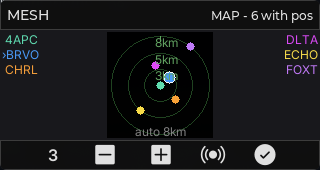
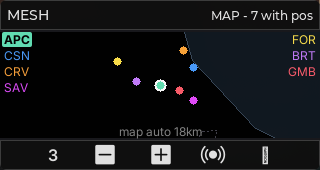
docs(map): refresh ADS-B + Meshtastic media for the worldwide map
Recapture the map media now that the base map is worldwide (world.rmap)
and the ADS-B Mercator crash is fixed:

- ADS-B: new hero demo.gif (full-width Mercator world map with live
  traffic + trails), add map.png, refresh radar.png; add a Map column to
  the screenshots table.
- Meshtastic: new hero demo.gif (world map, drifting nodes); refresh the
  map / map-select / map-zoom shots with a realistic local mesh cluster
  (~20 km around Bologna) over the worldwide coastline + borders.
- README: note the shared worldwide base map; fix the ADS-B caption
  (map, not radar).

Captured on the SDL sim via scripted demo feeders.

Claude-Session: https://claude.ai/code/session_01WxkrRinqJ7bSppr4SrWrMc

diff --git a/apps/adsb/README.md b/apps/adsb/README.md
@@ -14,10 +14,12 @@ Development happens on a desktop **SDL simulator** at the exact device resolutio
 > Status (2026-06-21): building green on the desktop SDL simulator. Verified end-to-end on hardware
 > with a real **RTL-SDR Blog V4** feeding `dump1090 --write-json`: live traffic on the list and radar.
 
-![ADS-B radar with live traffic](docs/media/demo.gif)
+![ADS-B world map with live traffic](docs/media/demo.gif)
 
-> The Radar screen on the SDL simulator at native 320×170: aircraft as heading arrows, concentric range
-> rings with NM labels, position trails, zoom in/out. (Simulated feed around the home location.)
+> The full-width **Mercator map** on the SDL simulator at native 320×170: aircraft as heading arrows over
+> a worldwide coastline + national-border base map, with position trails and transparent callsign columns
+> overlaid (selected aircraft inverted). Key `8` toggles between this map and the azimuthal PPI radar.
+> (Simulated feed around the home location.)
 
 ## Features
 
@@ -79,13 +81,14 @@ change it and restored next launch.
 
 ## Screenshots
 
-| List | Radar | Detail | Settings |
-| --- | --- | --- | --- |
-| ![list](docs/media/list.png) | ![radar](docs/media/radar.png) | ![detail](docs/media/detail.png) | ![settings](docs/media/settings.png) |
+| List | Radar | Map | Detail | Settings |
+| --- | --- | --- | --- | --- |
+| ![list](docs/media/list.png) | ![radar](docs/media/radar.png) | ![map](docs/media/map.png) | ![detail](docs/media/detail.png) | ![settings](docs/media/settings.png) |
 
 Native 320×170 (the device resolution). List is colour-coded by category (emergency red); Radar is a
-north-up scope with range rings; Detail pairs the selected-aircraft fields with a mini-radar; Settings
-is a navigable name/value list.
+north-up scope with range rings; Map is the full-width Mercator view over the worldwide base map (key `8`
+toggles Radar↔Map); Detail pairs the selected-aircraft fields with a mini-radar; Settings is a navigable
+name/value list.
 
 ## Quick start (desktop, with a real RTL-SDR + dump1090)
 

diff --git a/README.md b/README.md
@@ -18,10 +18,12 @@ apps/
 
 | ADS-B (`apps/adsb`) | SDR (`apps/sdr`) |
 | --- | --- |
-| ![ADS-B radar with live traffic](apps/adsb/docs/media/demo.gif) | ![SDR spectrum + waterfall](apps/sdr/docs/media/demo.gif) |
+| ![ADS-B world map with live traffic](apps/adsb/docs/media/demo.gif) | ![SDR spectrum + waterfall](apps/sdr/docs/media/demo.gif) |
 
 Both on the desktop SDL simulator at native 320×170; the SDR clip is a **live RTL-SDR Blog V4** WFM
-broadcast (the ADS-B clip uses a simulated feed). Per-screen shots are in each app's README.
+broadcast (the ADS-B clip uses a simulated feed). ADS-B and Meshtastic share a full-width Mercator map
+over a **worldwide** coastline + national-border base map (`assets/mapdata/world.rmap`). Per-screen shots
+are in each app's README.
 
 | Meshtastic: Map | Meshtastic: Chats | Meshtastic: Node detail |
 | --- | --- | --- |

diff --git a/apps/meshtastic/README.md b/apps/meshtastic/README.md
@@ -5,6 +5,12 @@ A Meshtastic LoRa-mesh client for the CardputerZero, built on the shared `radio_
 the radio — see the design docs in [`../../../radio-apps/`](../../../radio-apps/) (`09`, `09a`, `09b`,
 `09c`). UI follows the chosen dark theme (`09c`).
 
+![Meshtastic world map with live nodes](docs/media/demo.gif)
+
+> The full-width **Mercator map** at native 320×170: mesh nodes over a worldwide coastline +
+> national-border base map, with transparent short-name columns overlaid (self bold, selected inverted).
+> Key `8` toggles between this map and the azimuthal PPI radar. (Scripted peer around the home location.)
+
 ## Status
 
 Working (verified on a `meshtasticd -s` bench / scripted peer, both presets host + cp0 aarch64):
